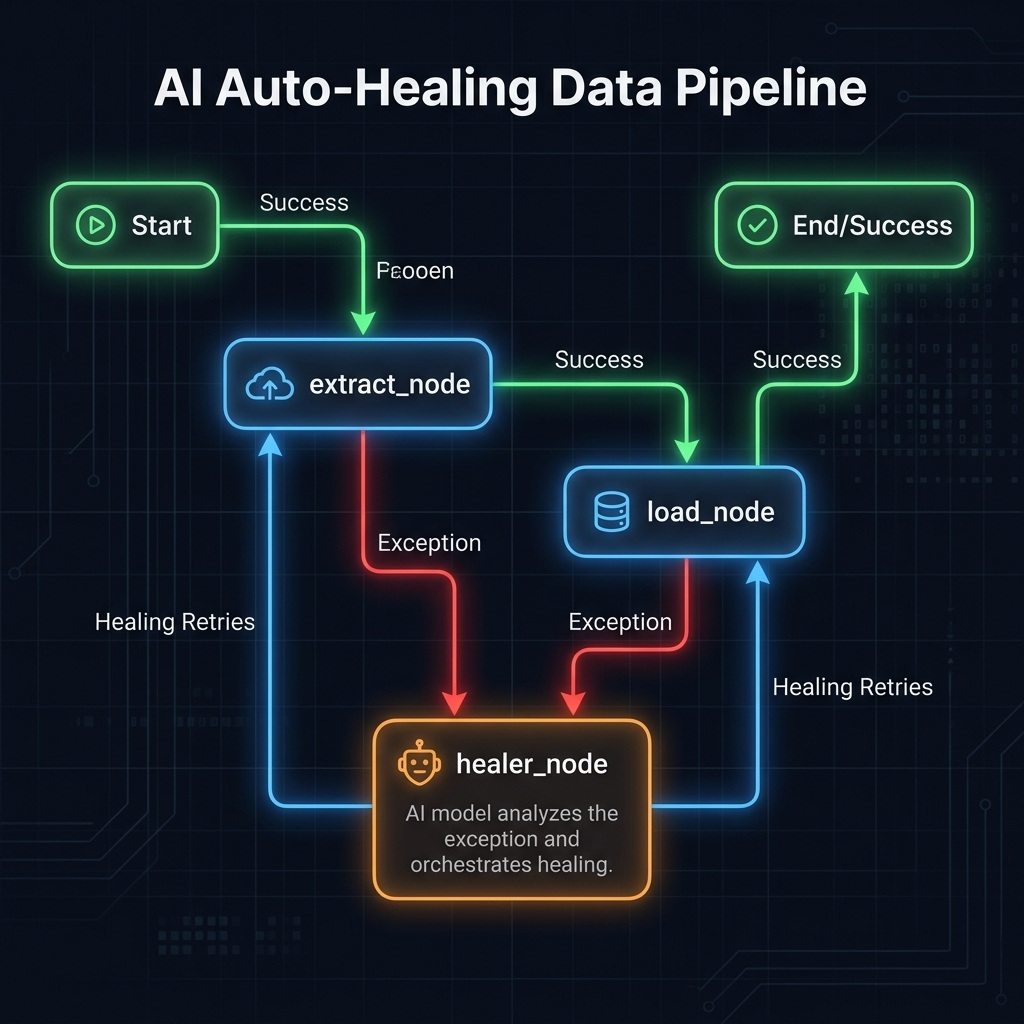
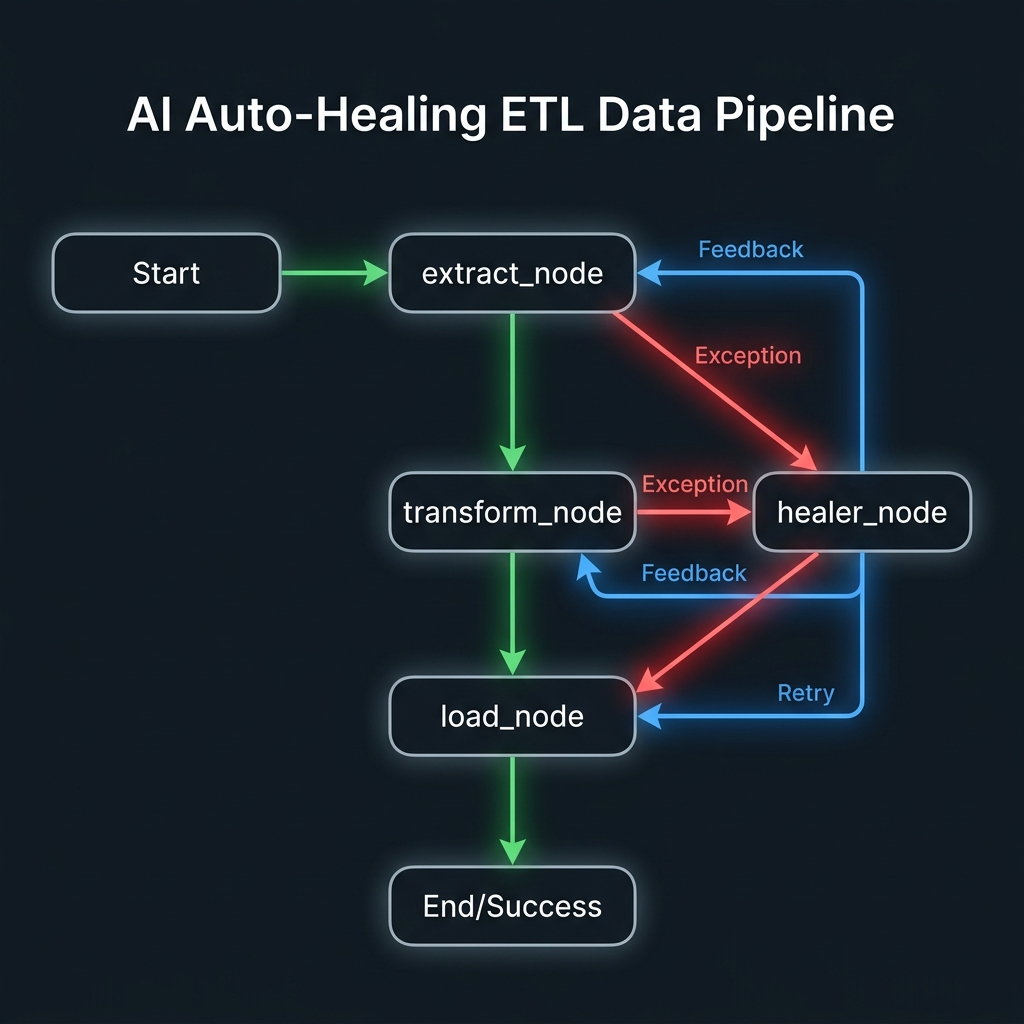
update markdown

Changed region(s): [[0.0312, 0.0625, 0.9688, 0.9375]]

diff --git a/research/auto_healing_langgraph.md b/research/auto_healing_langgraph.md
@@ -46,7 +46,7 @@ class PipelineState(TypedDict):
     file_path: str                  # Path to the source CSV file
     df: Optional[DataFrame]         # The active PySpark DataFrame being processed
     error: Optional[str]            # Details of the last raised exception
-    last_failed_step: Optional[str] # Which step failed: "extract" or "load"
+    last_failed_step: Optional[str] # Which step failed: "extract", "transform", or "load"
     heal_attempts: int              # Counter to prevent infinite loops
     max_attempts: int               # Limit on healing retries
     heal_history: List[dict]        # Log of AI-generated healing actions applied
@@ -130,6 +130,31 @@ def extract_node(state: PipelineState) -> dict:
         return {
             "error": error_msg,
             "last_failed_step": "extract"
+        }
+```
+
+### Transform Node
+```python
+def transform_node(state: PipelineState) -> dict:
+    print("\n--- Executing Transform Node ---")
+    df = state["df"]
+    
+    if df is None:
+        return {"error": "DataFrame is empty, cannot transform.", "last_failed_step": "transform"}
+        
+    try:
+        # Assuming you inject your pipeline class or custom business transformations
+        # Here we mock the pipeline ingestion transform (Identity block placeholder)
+        # E.g., transformed_df = pipeline.transform(df)
+        
+        # For this illustration, we pass the df forward unmodified:
+        return {"df": df, "error": None}
+    except Exception as e:
+        error_msg = f"Transformation failed: {str(e)}\n{traceback.format_exc()}"
+        print(f"Error captured during transform: {e}")
+        return {
+            "error": error_msg,
+            "last_failed_step": "transform"
         }
 ```
 
@@ -251,42 +276,59 @@ def healer_node(state: PipelineState) -> dict:
 
 ## 6. Graph Routing and Compilation
 
-We need a router function to decide whether to stop or continue when an error is encountered.
+We define edge-routing functions for each step to handle errors, trigger healing, or advance to the next pipeline node.
 
 ```python
 from langgraph.graph import StateGraph, END
 
-# Conditional routing edge
-def route_after_step(state: PipelineState) -> str:
+# Conditional routing edge after Extract Node
+def route_after_extract(state: PipelineState) -> str:
     if state["error"] is not None:
-        if state["heal_attempts"] < state["max_attempts"]:
-            return "healer"
-        else:
-            return "fail"
-    else:
-        # If extract succeeded, move to load. If load succeeded, end.
-        if state["last_failed_step"] is None:
-            # First success must be extraction
-            return "load"
-        else:
-            # Succeeded loading
-            return "end"
+        return "healer" if state["heal_attempts"] < state["max_attempts"] else "fail"
+    return "transform"
+
+# Conditional routing edge after Transform Node
+def route_after_transform(state: PipelineState) -> str:
+    if state["error"] is not None:
+        return "healer" if state["heal_attempts"] < state["max_attempts"] else "fail"
+    return "load"
+
+# Conditional routing edge after Load Node
+def route_after_load(state: PipelineState) -> str:
+    if state["error"] is not None:
+        return "healer" if state["heal_attempts"] < state["max_attempts"] else "fail"
+    return "end"
+
+# Healer node routing: routes back to the specific step that failed to retry it
+def route_back_to_failed(state: PipelineState) -> str:
+    return state["last_failed_step"]
 
 # Compile graph
 workflow = StateGraph(PipelineState)
 
 # Add nodes
 workflow.add_node("extract", extract_node)
+workflow.add_node("transform", transform_node)
 workflow.add_node("load", load_node)
 workflow.add_node("healer", healer_node)
 
 # Set entry point
 workflow.set_entry_point("extract")
 
-# Add conditional edges
+# Add conditional edges to handle success vs error branches
 workflow.add_conditional_edges(
     "extract",
-    route_after_step,
+    route_after_extract,
+    {
+        "transform": "transform",
+        "healer": "healer",
+        "fail": END
+    }
+)
+
+workflow.add_conditional_edges(
+    "transform",
+    route_after_transform,
     {
         "load": "load",
         "healer": "healer",
@@ -296,7 +338,7 @@ workflow.add_conditional_edges(
 
 workflow.add_conditional_edges(
     "load",
-    route_after_step,
+    route_after_load,
     {
         "end": END,
         "healer": "healer",
@@ -304,15 +346,12 @@ workflow.add_conditional_edges(
     }
 )
 
-# Healer nodes routes back to the failed node to retry
-def route_back(state: PipelineState) -> str:
-    return state["last_failed_step"]
-
 workflow.add_conditional_edges(
     "healer",
-    route_back,
+    route_back_to_failed,
     {
         "extract": "extract",
+        "transform": "transform",
         "load": "load"
     }
 )
